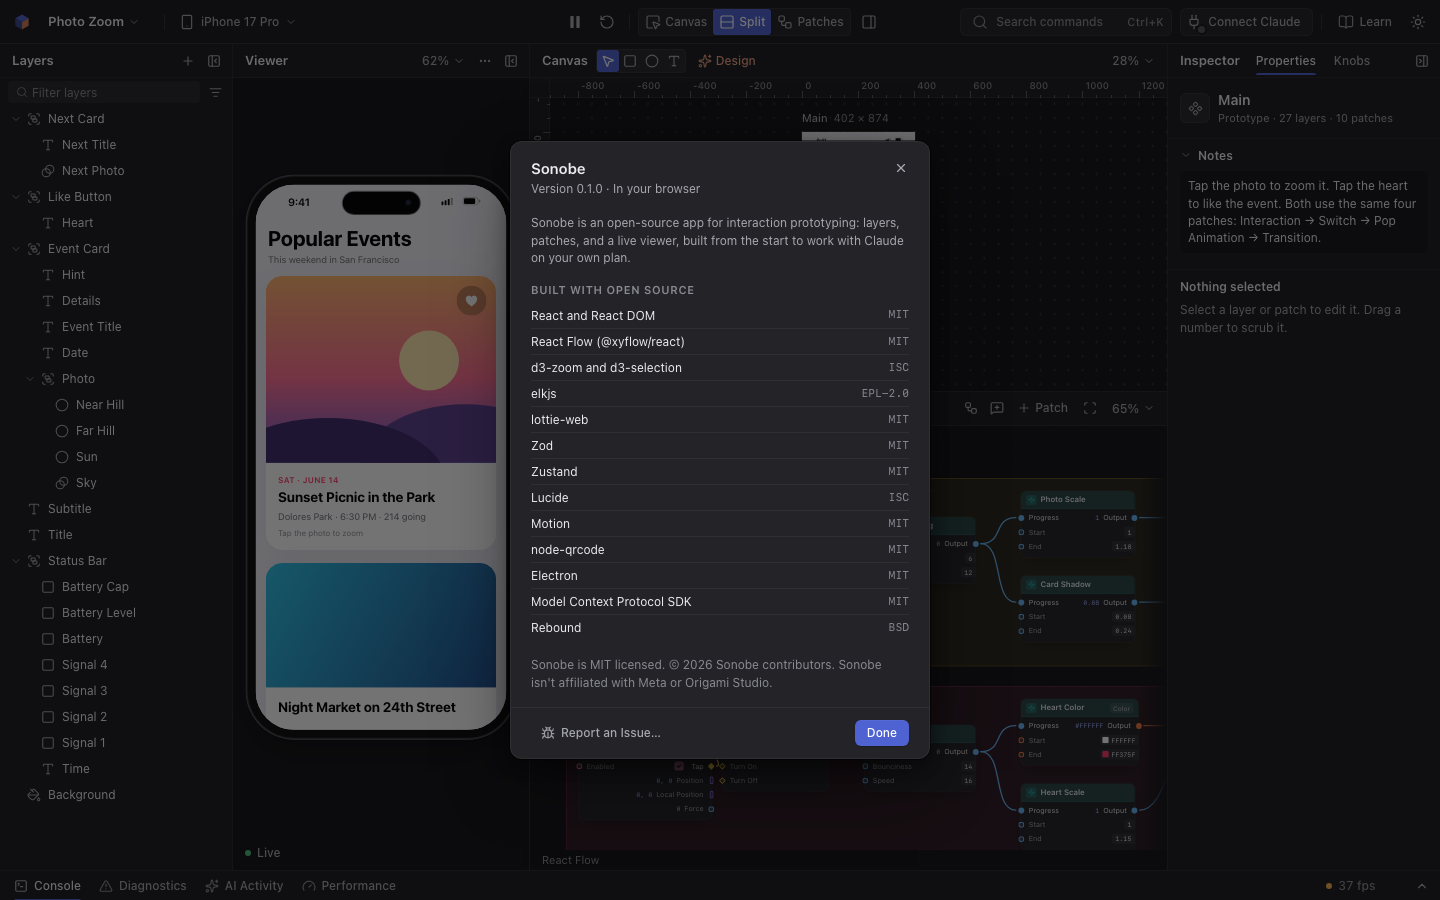
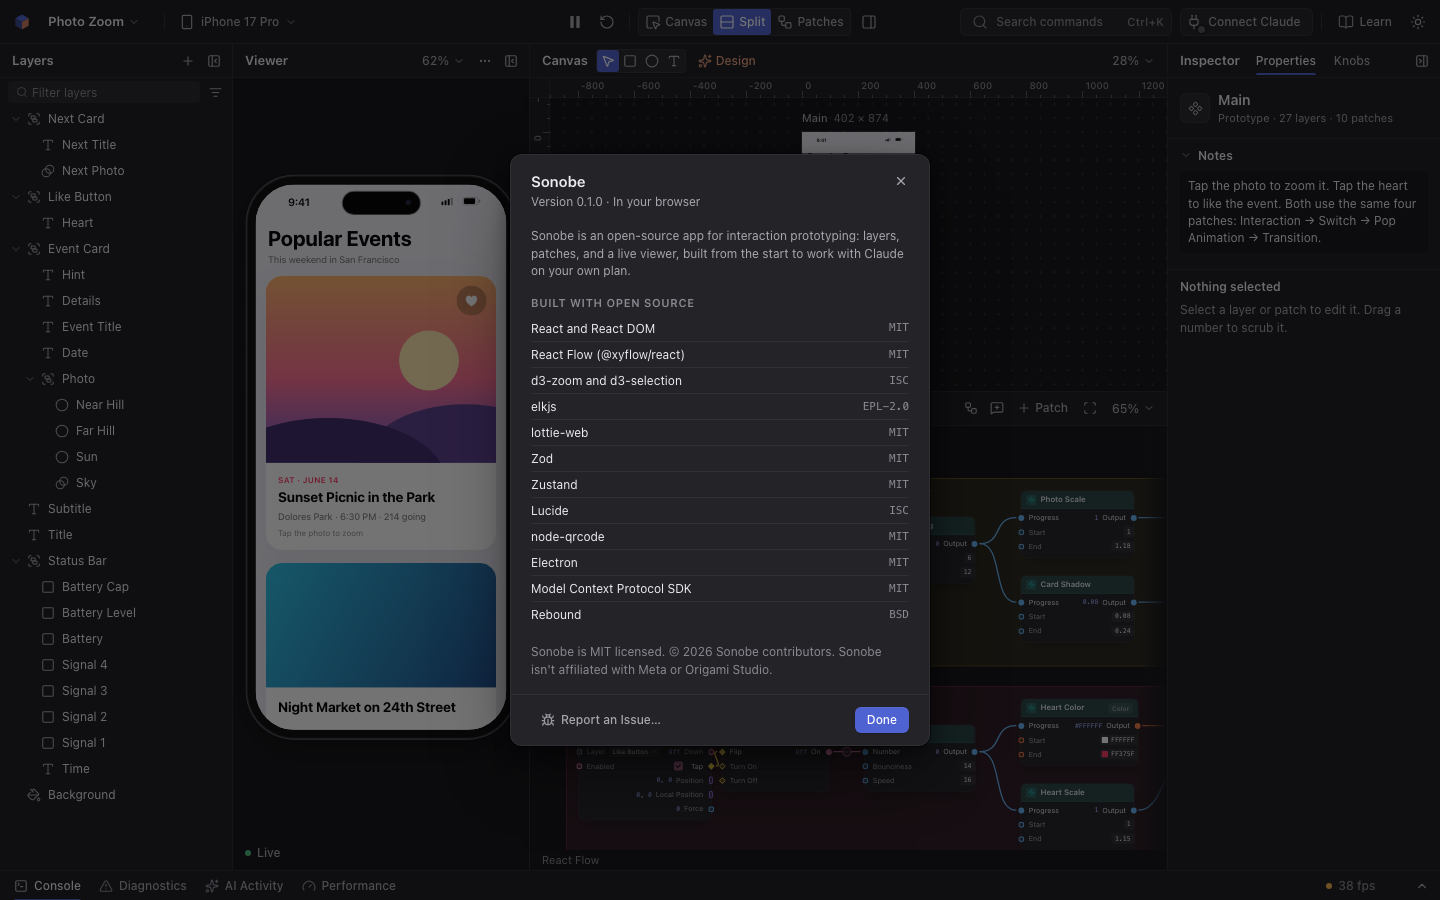
Editor: drop the unused `motion` dependency and its About credit
Nothing imports `motion` (or framer-motion): the only matches in the repo are
a handoff snippet in docs/guides/05-springs-and-feel.md and the spring
inspector's "motion" code label, which are text. It has been in
apps/editor/package.json since the scaffold. Interface animation is CSS.

- `npm uninstall motion -w @sonobe/editor`, run offline with no audit. The
  lockfile loses exactly motion, framer-motion, motion-dom and motion-utils,
  and tslib becomes dev-only (only build tools still need it).
- About Sonobe listed "Motion: Interface animation" under "Built with open
  source". The row is gone, and app-13-about.png is retaken for it.

Not a speed change: the package was never in a bundle. Uninstalling it leaves
every built file with the same content hash; only the credit row's removal
changes the build, by that one line in the entry chunk.

Claude-Session: https://claude.ai/code/session_015t8PzPLoYDkRuCs6oyQh4m

Changed region(s): [[0.3438, 0.1556, 0.6562, 0.8711], [0.5938, 0.4356, 0.625, 0.4667]]

diff --git a/apps/editor/src/app/about.ts b/apps/editor/src/app/about.ts
@@ -23,7 +23,6 @@ export const CREDITS: readonly Credit[] = [
   { name: "Zod", role: "Validating project files", license: "MIT", url: "https://zod.dev" },
   { name: "Zustand", role: "Editor state", license: "MIT", url: "https://github.com/pmndrs/zustand" },
   { name: "Lucide", role: "Icons", license: "ISC", url: "https://lucide.dev" },
-  { name: "Motion", role: "Interface animation", license: "MIT", url: "https://motion.dev" },
   { name: "node-qrcode", role: "Preview on Phone QR codes", license: "MIT", url: "https://github.com/soldair/node-qrcode" },
   { name: "Electron", role: "The desktop app", license: "MIT", url: "https://www.electronjs.org" },
   { name: "Model Context Protocol SDK", role: "Connecting Claude over MCP", license: "MIT", url: "https://modelcontextprotocol.io" },
